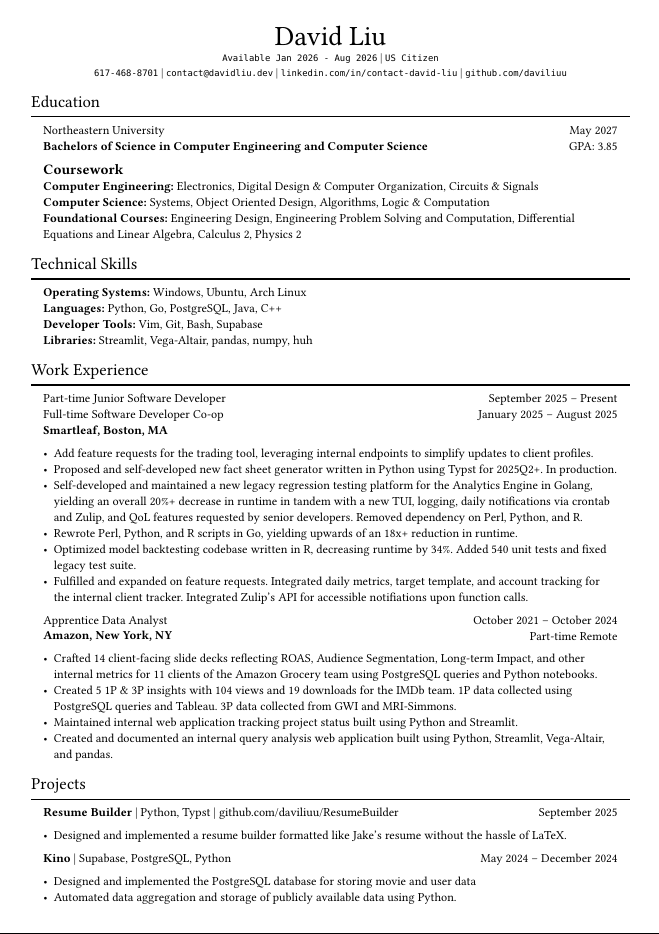
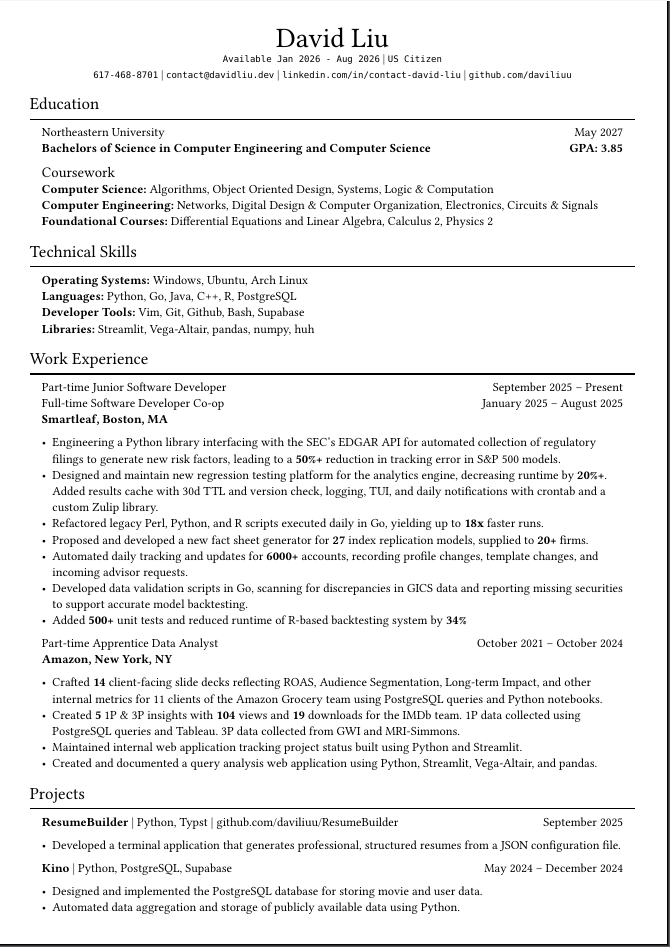
ResumeBuilder: Added support for bolding in experience section's bullet points via **text**. Removed bolding for coursework. Added bolding for gpa. Updated sample.

Changed region(s): [[0.0303, 0.0931, 0.9408, 0.9625], [0.0, 0.0, 1.0, 1.0], [0.1517, 0.031, 0.8498, 0.0931]]

diff --git a/src/resume/education.py b/src/resume/education.py
@@ -34,12 +34,12 @@ class Education(ResumePart):
                 text()[
                     #set align(right)
                     {items["graduation"]} \\
-                    GPA: {items["gpa"]}
+                    #text(weight: "bold")[GPA: {items["gpa"]}]
                 ],
             )"""
             if len(items["courses"]) > 0:
                 inline = const.INLINE_HEADER
-                content += f"""#text(weight: "bold", {inline})[Coursework]"""
+                content += f"""#text({inline})[Coursework]"""
                 content +=  "\\ \n"
                 for course_map in items["courses"]:
                     name = course_map["name"]

diff --git a/src/resume/utils.py b/src/resume/utils.py
@@ -1,4 +1,5 @@
 import resume.constants as const
+import re as regex
 
 def create_heading(header: str):
     return f"""
@@ -9,3 +10,10 @@ def create_heading(header: str):
     ]
     """
 
+def convert_bold(text: str):
+    """
+    Converts **foo bar** to #emph()[foo bar]
+    """
+    pattern = r"\*\*(.*?)\*\*"
+    replacement = r"""#text(weight: "bold")[\1]"""
+    return regex.sub(pattern, replacement, text)

diff --git a/src/resume/experience.py b/src/resume/experience.py
@@ -38,7 +38,7 @@ class Experience(ResumePart):
             if len(items) > 0:
                 content += "#list(\n"
                 for item in items:
-                    content += f"[{item}],\n"
+                    content += f"[{utils.convert_bold(item)}],\n"
                 content += ")\n"
 
         section = f"""
